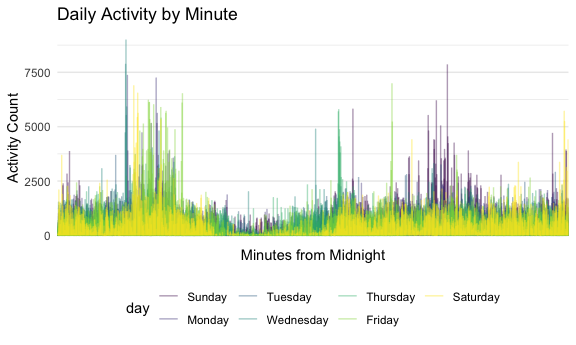
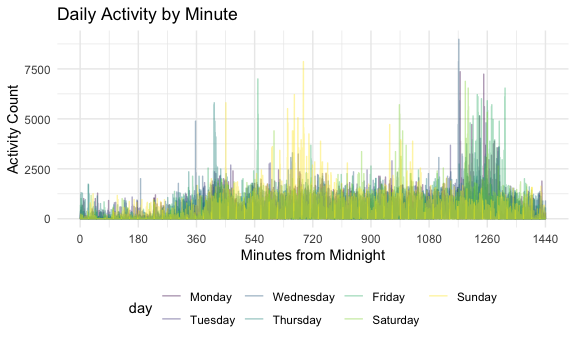
Final changes (minutes variable to numeric / fix plot)

diff --git a/p8105_hw3_enp2116.md b/p8105_hw3_enp2116.md
@@ -175,7 +175,8 @@ accel_data =
                           day == "Thursday" ~ 'weekday',
                           day == "Friday" ~ 'weekday')) %>% 
   relocate(split_week) %>% 
-  mutate(day = fct_relevel(day, c("Sunday", "Monday", "Tuesday", "Wednesday", "Thursday", "Friday", "Saturday")))
+  mutate(day = fct_relevel(day, c("Monday", "Tuesday", "Wednesday", "Thursday", "Friday", "Saturday", "Sunday")),
+         minute = as.numeric(minute))
 ```
 
 Describing the resulting dataset:
@@ -203,13 +204,13 @@ accel_data %>%
   knitr::kable(digits = 0)
 ```
 
-| week | Sunday | Monday | Tuesday | Wednesday | Thursday | Friday | Saturday |
-|-----:|-------:|-------:|--------:|----------:|---------:|-------:|---------:|
-|    1 | 631105 |  78828 |  307094 |    340115 |   355924 | 480543 |   376254 |
-|    2 | 422018 | 295431 |  423245 |    440962 |   474048 | 568839 |   607175 |
-|    3 | 467052 | 685910 |  381507 |    468869 |   371230 | 467420 |   382928 |
-|    4 | 260617 | 409450 |  319568 |    434460 |   340291 | 154049 |     1440 |
-|    5 | 138421 | 389080 |  367824 |    445366 |   549658 | 620860 |     1440 |
+| week | Monday | Tuesday | Wednesday | Thursday | Friday | Saturday | Sunday |
+|-----:|-------:|--------:|----------:|---------:|-------:|---------:|-------:|
+|    1 |  78828 |  307094 |    340115 |   355924 | 480543 |   376254 | 631105 |
+|    2 | 295431 |  423245 |    440962 |   474048 | 568839 |   607175 | 422018 |
+|    3 | 685910 |  381507 |    468869 |   371230 | 467420 |   382928 | 467052 |
+|    4 | 409450 |  319568 |    434460 |   340291 | 154049 |     1440 | 260617 |
+|    5 | 389080 |  367824 |    445366 |   549658 | 620860 |     1440 | 138421 |
 
 Tuesday, Wednesday, and Thursdays all seem to have the consistent
 amounts of total activity (hovering around 300000-450000), whereas
@@ -233,16 +234,18 @@ ggplot(aes(x = minute, y = activity_count)) +
     title = "Daily Activity by Minute",
     x = "Minutes from Midnight",
     y = "Activity Count"
-    )  + scale_x_discrete(breaks = NULL)
+    )  + scale_x_continuous(breaks = c(0, 180, 360, 540, 720, 900, 1080, 1260, 1440))
 ```
 
 <img src="p8105_hw3_enp2116_files/figure-gfm/unnamed-chunk-10-1.png" width="90%" />
 
 Based on this graph, we can see that the distribution of activity
-throughout the day tends to have a consistent lull before noon. On
-Sundays, we see this as a larger nighttime peak and on weekdays we see a
-larger morning peak. Despite this, activity counts per minute usually
-hover around 1225, with more active time periods mostly under 2500.
+throughout the day tends to have a consistent lull in the nighttime
+(while sleeping). On Sundays, we see more activity around noon and on
+Friday and Saturday, we see more activity at evening. Despite this,
+activity counts per minute usually hover around 1225, with more active
+time periods mostly under 2500, although staying around 5000 per minute
+for some more active periods.
 
 # Problem 3
 
@@ -324,13 +327,6 @@ Additionally, a histogram of the snowfall shows the high right-skew
 distribution of the data (lots of low values), which may explain why the
 units were originally chosen to be small.
 
-``` r
-noaa_tidy %>% 
-  select(snow) %>% 
-  filter(snow == 0) %>% 
-  count() / 2595176
-```
-
     ##          n
     ## 1 0.773939
 
@@ -343,8 +339,6 @@ noaa_tidy %>%
     y = "Frequency"
     )
 ```
-
-    ## `stat_bin()` using `bins = 30`. Pick better value with `binwidth`.
 
     ## Warning: Removed 383707 rows containing non-finite values (stat_bin).
 
@@ -366,15 +360,10 @@ noaa_tidy %>%
   ggplot(aes(x = year, y = mean_tmax, color = id)) + 
   geom_line() +   
   theme(legend.position="none") + 
-  labs(x = "Years", y = "Average Max Temperature (degrees C)", title = "Average Max Temperature by Month and Year") + 
+  labs(x = "Years", y = "Average Max Temperature (degrees C)", title = "Average Max Temperature by Month and Year (1980-2010)") + 
   facet_grid(~ month) + 
   theme(panel.spacing.x = unit(6, "mm"))
 ```
-
-    ## `summarise()` has grouped output by 'id', 'month'. You can override using the
-    ## `.groups` argument.
-
-    ## Warning: Removed 6007 row(s) containing missing values (geom_path).
 
 <img src="p8105_hw3_enp2116_files/figure-gfm/unnamed-chunk-16-1.png" width="90%" />
 Based on our two-panel plot, we can see a clear seasonal trend for
@@ -383,7 +372,8 @@ hovered around 0 degrees C while July around 27.5 degrees C.
 Additionally, at a given time point, different stations seem to mirror
 one anothers’ trends (within about 10 degrees C). Finally, over the 30
 year timespan of interest, average max temperature has not changed much
-when comparing within the same months.
+when comparing within the same months. A key outlier occurs in the July
+panel, with a lower temperature of about 14 degrees C in the late 1980s.
 
 -   Make a two-panel plot showing (i) tmax vs tmin for the full dataset
     (note that a scatterplot may not be the best option); and (ii) make
@@ -394,9 +384,8 @@ when comparing within the same months.
 tmax_vs_tmin = 
   noaa_tidy %>% 
   ggplot(aes(x = tmin_C, y = tmax_C)) + 
-  geom_hex(alpha = .5) +
-  theme(legend.position = "none") + 
-  labs(x = "Minimum Temperature (degrees C)", y = "Maximum Temperature (degrees C)")
+  geom_hex(bins = 40) +
+  labs(x = "Minimum Temperature (degrees C)", y = "Maximum Temperature (degrees C)", subtitle = "Heatmap Plot of Min Temp vs. Max Temp")
 
 snow_dist = 
   noaa_tidy %>% 
@@ -405,13 +394,10 @@ snow_dist =
   filter(0 < snow & snow < 100) %>% 
   ggplot(aes(x = snow, color = year)) + 
   geom_density(alpha = .5) + 
-  theme(legend.position = "none")  + 
-  labs(x = "Snowfall (mm)", y = "Density")
-
+  theme(legend.key.size = unit(1, 'mm'))  + 
+  labs(x = "Snowfall (mm)", y = "Density", subtitle = "Density Plot of Snowfall (mm)")
 
 (tmax_vs_tmin + snow_dist)
 ```
-
-    ## Warning: Removed 1136276 rows containing non-finite values (stat_binhex).
 
 <img src="p8105_hw3_enp2116_files/figure-gfm/unnamed-chunk-17-1.png" width="90%" />
